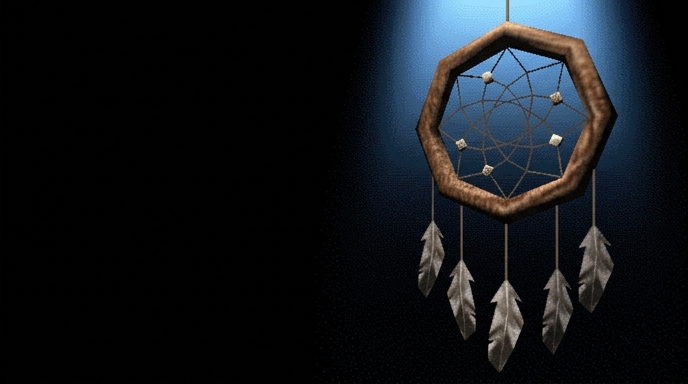
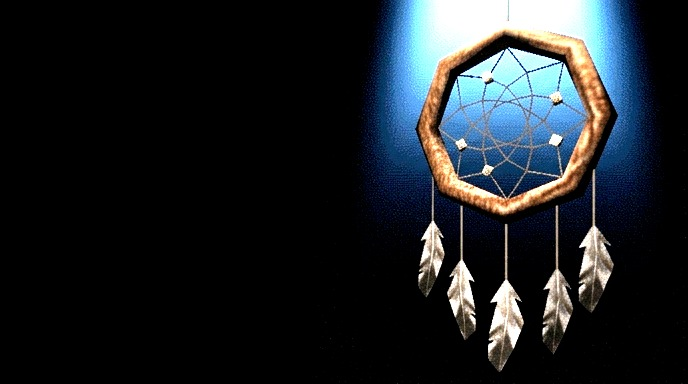
feat: the dreamcatcher on the title and loading screens
The PS1 dreamcatcher replaces the reaching figure behind the title, the
same as on the thumbnails. It's saved already brightened, since the
title renderer drains it to moonlight blue and would sink the hoop into
the dark otherwise.

Changed region(s): [[0.5189, 0.0, 0.9462, 0.9688], [0.7936, 0.5625, 0.8241, 0.5938]]

diff --git a/src/game/ui/TitleScreen.ts b/src/game/ui/TitleScreen.ts
@@ -70,7 +70,7 @@ const firstSentence = (text: string) => text.match(/^.*?[.!?](\s|$)/)?.[0].trim(
 
 export class TitleScreen {
   private readonly root: HTMLElement;
-  private readonly art = new TitleArt(GAME_NAME, "/title/ghost.jpg");
+  private readonly art = new TitleArt(GAME_NAME, "/title/dreamcatcher.jpg");
   private readonly prompt: HTMLElement;
   private readonly menu: HTMLElement;
   private items: HTMLButtonElement[] = [];

diff --git a/src/game/ui/LoadingScreen.ts b/src/game/ui/LoadingScreen.ts
@@ -20,7 +20,7 @@ const element = <K extends keyof HTMLElementTagNameMap>(tag: K, className: strin
 
 export class LoadingScreen {
   private readonly root: HTMLElement;
-  private readonly art = new TitleArt(GAME_NAME, "/title/ghost.jpg");
+  private readonly art = new TitleArt(GAME_NAME, "/title/dreamcatcher.jpg");
   private readonly title: HTMLElement;
   private readonly stage: HTMLElement;
   private readonly bar: HTMLElement;
